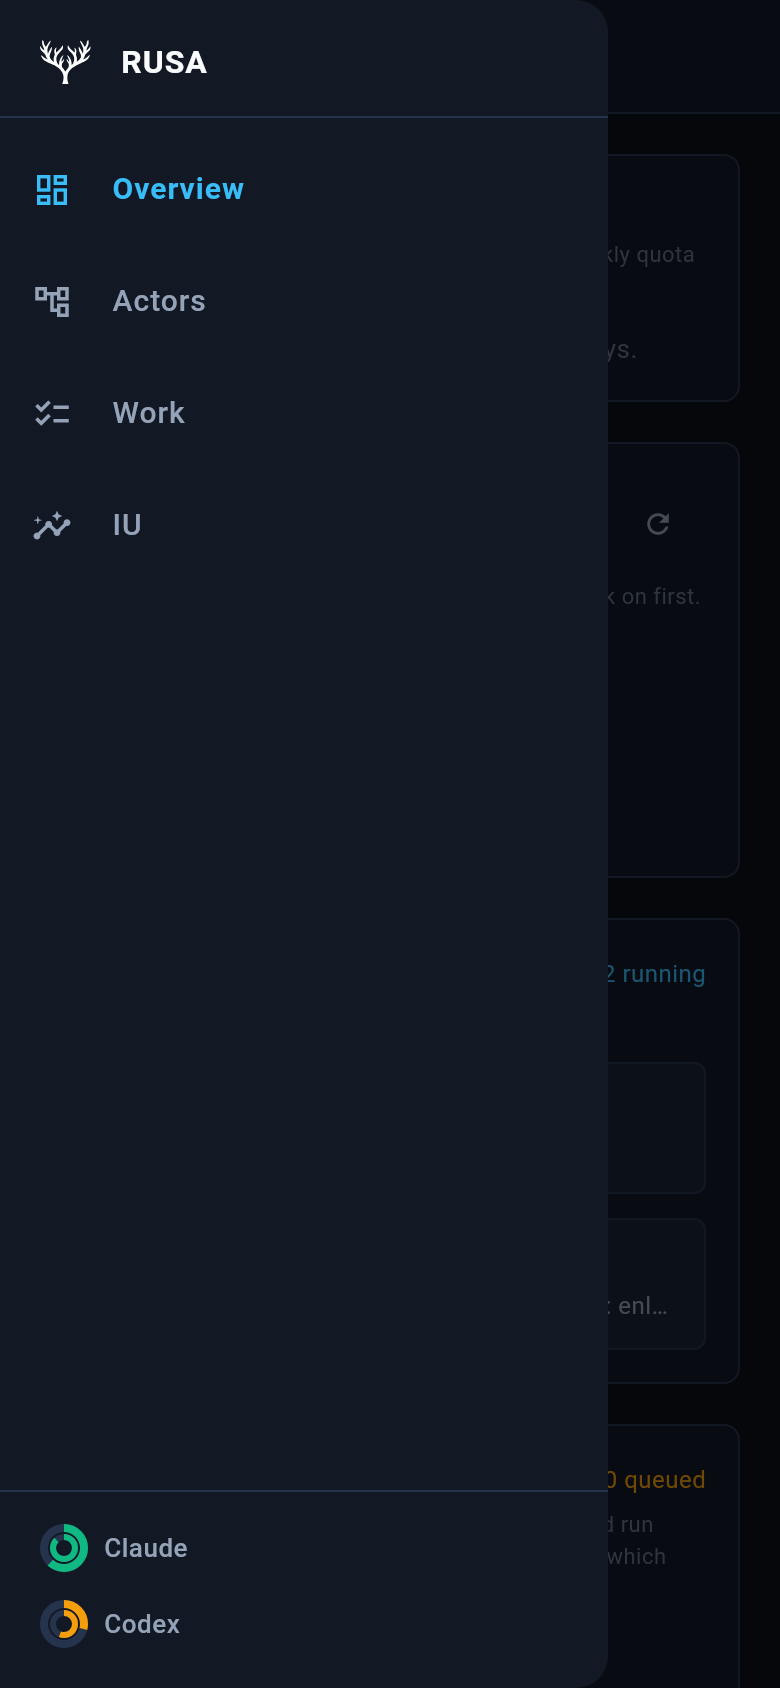
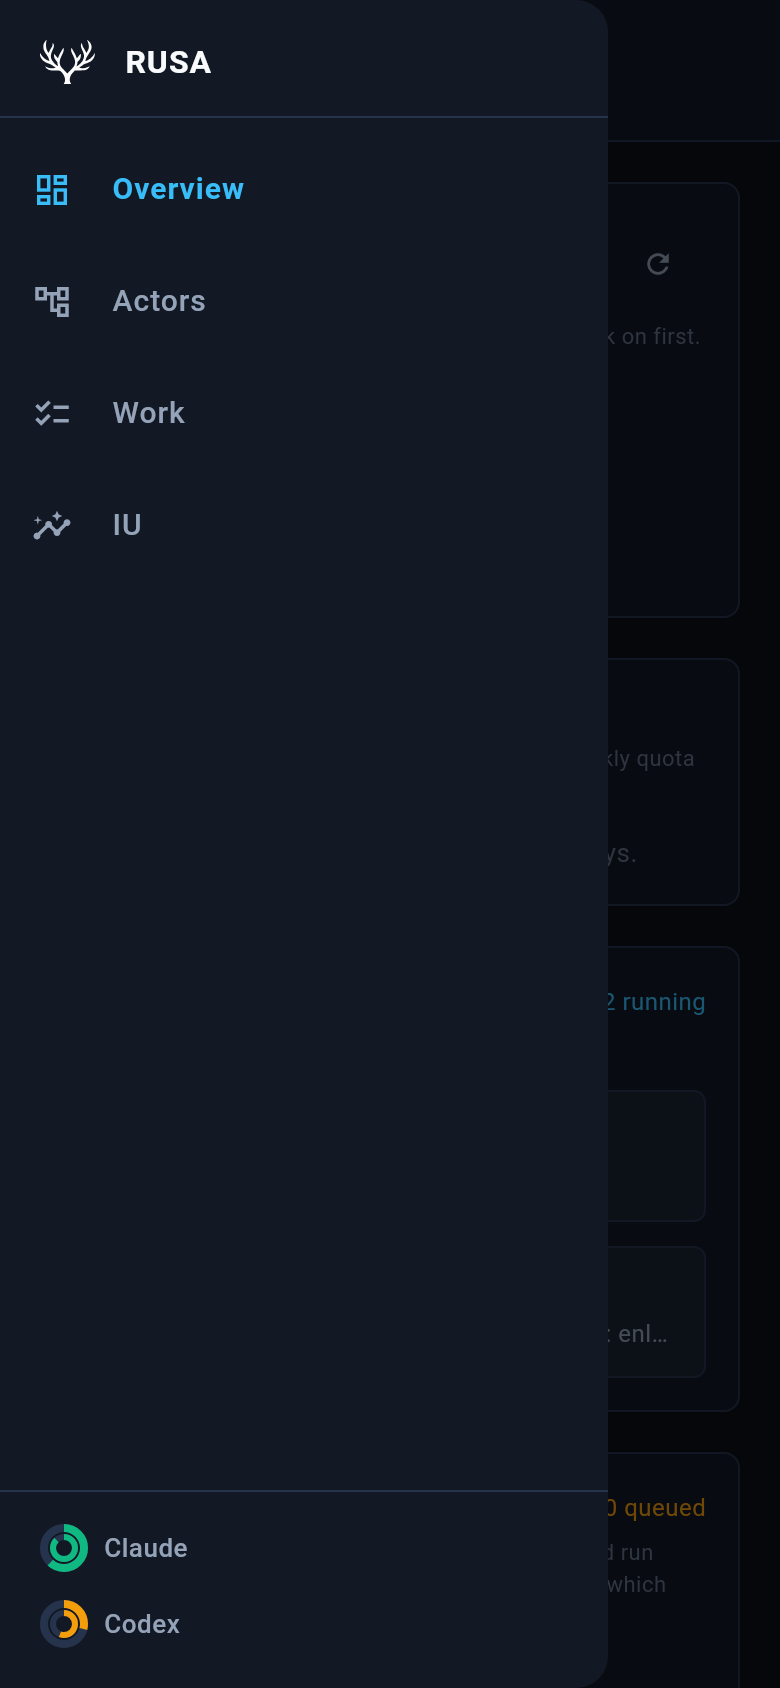
fix(dashboard): simplify header mark (#429) (#432)
* fix(dashboard): simplify header mark (#429)

* test(dashboard): cover narrow header mark review

diff --git a/packages/rusa/flutter_dashboard/test/header_mark_test.dart b/packages/rusa/flutter_dashboard/test/header_mark_test.dart
@@ -8,10 +8,10 @@ import 'package:rusa_dashboard/widgets/mobile_nav_drawer.dart';
 
 import 'fakes.dart';
 
-// Issue #412: the dashboard's upper-left mark is the operator-supplied
-// antler/tree SVG, the routine status indicator is gone, and an active halt
-// still surfaces a visible badge. The SVG loads asynchronously, so each test
-// runs in a real async zone and pumps until the asset future completes.
+// Issue #429 replaces the dashboard's upper-left mark with the simplified
+// antler/tree SVG. The normal-hidden status and active-halt badge behavior
+// landed in #412 and remain covered here. The SVG loads asynchronously, so each
+// test runs in a real async zone and pumps until the asset future completes.
 
 Widget _header(DashboardStore store) => MaterialApp(
   home: Scaffold(
@@ -21,6 +21,20 @@ Widget _header(DashboardStore store) => MaterialApp(
         store: store,
         selected: DashboardView.actors,
         onSelect: (_) {},
+      ),
+    ),
+  ),
+);
+
+Widget _phoneHeader(DashboardStore store, double width) => MaterialApp(
+  home: Scaffold(
+    body: SizedBox(
+      width: width,
+      child: MeshHeader(
+        store: store,
+        selected: DashboardView.actors,
+        onSelect: (_) {},
+        onMenuTap: () {},
       ),
     ),
   ),
@@ -48,7 +62,7 @@ Future<void> _pumpUntilMarkLoads(WidgetTester tester) async {
 
 void main() {
   testWidgets(
-    'renders the antler/tree mark upper-left in desktop header with bounds and crop margins',
+    'renders the simplified antler/tree mark upper-left in desktop header with bounds and crop margins',
     (tester) async {
       final api = FakeApi()..threadsResult = [makeThread('root', created: 't0')];
       final store = DashboardStore(api: api, stream: FakeStream());
@@ -82,14 +96,14 @@ void main() {
       final brandRowRect = tester.getRect(brandRow);
       expect(brandRowRect.height, 70.0);
 
-      // Artwork box constraint is 22px high and preserves 596:687 aspect ratio.
+      // Artwork box constraint is 22px high and preserves 193:241 aspect ratio.
       expect(svgRect.height, 22.0);
-      expect(svgRect.height / svgRect.width, moreOrLessEquals(596 / 687, epsilon: 0.01));
+      expect(svgRect.height / svgRect.width, moreOrLessEquals(193 / 241, epsilon: 0.01));
 
       // BrandMark footprint: vertical footprint is 32px (22 + 2*5 padding),
-      // horizontal footprint is ~35.36px (22 * 687 / 596 + 2*5).
+      // horizontal footprint is ~37.47px (22 * 241 / 193 + 2*5).
       expect(markRect.height, 32.0);
-      expect(markRect.width, moreOrLessEquals(22 * 687 / 596 + 10, epsilon: 0.1));
+      expect(markRect.width, moreOrLessEquals(22 * 241 / 193 + 10, epsilon: 0.1));
 
       // Visual breathing room / crop-compensation margins:
       // Artwork has 5px internal clearance from the BrandMark container on all sides.
@@ -121,7 +135,7 @@ void main() {
   );
 
   testWidgets(
-    'renders the antler/tree mark in phone drawer with proper bounds and spacing',
+    'renders the simplified antler/tree mark in phone drawer with proper bounds and spacing',
     (tester) async {
       final api = FakeApi()..threadsResult = [makeThread('root', created: 't0')];
       final store = DashboardStore(api: api, stream: FakeStream());
@@ -144,13 +158,13 @@ void main() {
       final svgRect = tester.getRect(svg);
       final textRect = tester.getRect(text);
 
-      // Artwork box constraint is 22px high and preserves 596:687 aspect ratio.
+      // Artwork box constraint is 22px high and preserves 193:241 aspect ratio.
       expect(svgRect.height, 22.0);
-      expect(svgRect.height / svgRect.width, moreOrLessEquals(596 / 687, epsilon: 0.01));
+      expect(svgRect.height / svgRect.width, moreOrLessEquals(193 / 241, epsilon: 0.01));
 
       // BrandMark footprint in drawer.
       expect(markRect.height, 32.0);
-      expect(markRect.width, moreOrLessEquals(22 * 687 / 596 + 10, epsilon: 0.1));
+      expect(markRect.width, moreOrLessEquals(22 * 241 / 193 + 10, epsilon: 0.1));
 
       // In the drawer, outer padding is (15, 15, 20, 11) to compensate for 5px mark padding,
       // landing the artwork at exactly 20px from drawer top and left edges.
@@ -205,6 +219,50 @@ void main() {
     expect(find.byType(BrandMark), findsOneWidget);
     await tester.runAsync(store.dispose);
   });
+
+  testWidgets(
+    'phone header keeps its actual compact controls inside 320px and 360px',
+    (tester) async {
+      final api = FakeApi()
+        ..halted = true
+        ..schedulerWarning = ['`atq` cannot be queried']
+        ..threadsResult = [makeThread('root', created: 't0')];
+      final store = DashboardStore(api: api, stream: FakeStream());
+      await tester.runAsync(store.init);
+      addTearDown(() => tester.binding.setSurfaceSize(null));
+
+      for (final width in [320.0, 360.0]) {
+        await tester.binding.setSurfaceSize(Size(width, 800));
+        await tester.pumpWidget(_phoneHeader(store, width));
+        await tester.pump(const Duration(milliseconds: 50));
+
+        final headerRect = tester.getRect(find.byType(MeshHeader));
+        // Phone navigation deliberately replaces BrandMark with the menu; the
+        // mark remains in the drawer, leaving the real header one compact row.
+        expect(find.byType(BrandMark), findsNothing);
+        expect(find.byIcon(Icons.menu), findsOneWidget);
+        expect(find.text('RUSA'), findsOneWidget);
+        expect(find.byIcon(Icons.pause_circle_filled), findsOneWidget);
+        expect(find.byIcon(Icons.warning_amber_rounded), findsOneWidget);
+        expect(find.text('Halted'), findsNothing);
+        expect(find.text('Scheduler'), findsNothing);
+
+        for (final finder in [
+          find.byIcon(Icons.menu),
+          find.text('RUSA'),
+          find.byIcon(Icons.pause_circle_filled),
+          find.byIcon(Icons.warning_amber_rounded),
+        ]) {
+          final rect = tester.getRect(finder);
+          expect(rect.left, greaterThanOrEqualTo(headerRect.left));
+          expect(rect.right, lessThanOrEqualTo(headerRect.right));
+        }
+        expect(tester.takeException(), isNull);
+      }
+
+      await tester.runAsync(store.dispose);
+    },
+  );
 
   testWidgets('phone shape swaps the mark for the menu but keeps the brand', (
     tester,

diff --git a/packages/rusa/flutter_dashboard/lib/widgets/brand_mark.dart b/packages/rusa/flutter_dashboard/lib/widgets/brand_mark.dart
@@ -1,25 +1,25 @@
 import 'package:flutter/material.dart';
 import 'package:flutter_svg/flutter_svg.dart';
 
-/// The dashboard's upper-left brand mark: the operator-supplied antler/tree
-/// artwork (issue #412). The source SVG is tightly cropped — the antlers and
-/// roots run to its edges — so it always renders inside fixed padding that
-/// gives the artwork visual breathing room at the existing header size, on
-/// both the desktop header and the phone drawer.
+/// The dashboard's upper-left brand mark: the simplified operator-supplied
+/// antler/tree artwork (issue #429). The source SVG is tightly cropped — the
+/// antlers and roots run to its edges — so it always renders inside fixed
+/// padding that gives the artwork visual breathing room at the existing header
+/// size, on both the desktop header and the phone drawer.
 class BrandMark extends StatelessWidget {
   const BrandMark({super.key});
 
   /// Fixed height constraint for the artwork box itself. Sized so the padded
-  /// widget sits comfortably centered in the 56px header row.
+  /// widget sits comfortably centered in the 70px header row.
   static const double _kArtworkHeight = 22;
 
   /// Surrounding space compensating for the artwork's tight crop.
   ///
   /// With [kPadding] of 5 px on all sides and artwork height constrained to
   /// 22 px, the widget's vertical footprint is 32 px (`22 + 2 * 5`). Because
-  /// the SVG has an intrinsic 687×596 aspect ratio (~1.1527:1) letterboxed by
-  /// [BoxFit.contain], the artwork renders at ~25.36 px wide, producing a total
-  /// horizontal footprint of ~35.36 px (`25.36 + 2 * 5`).
+  /// the SVG has an intrinsic 241×193 aspect ratio (~1.2487:1) letterboxed by
+  /// [BoxFit.contain], the artwork renders at ~27.47 px wide, producing a total
+  /// horizontal footprint of ~37.47 px (`27.47 + 2 * 5`).
   static const double kPadding = 5;
 
   @override
